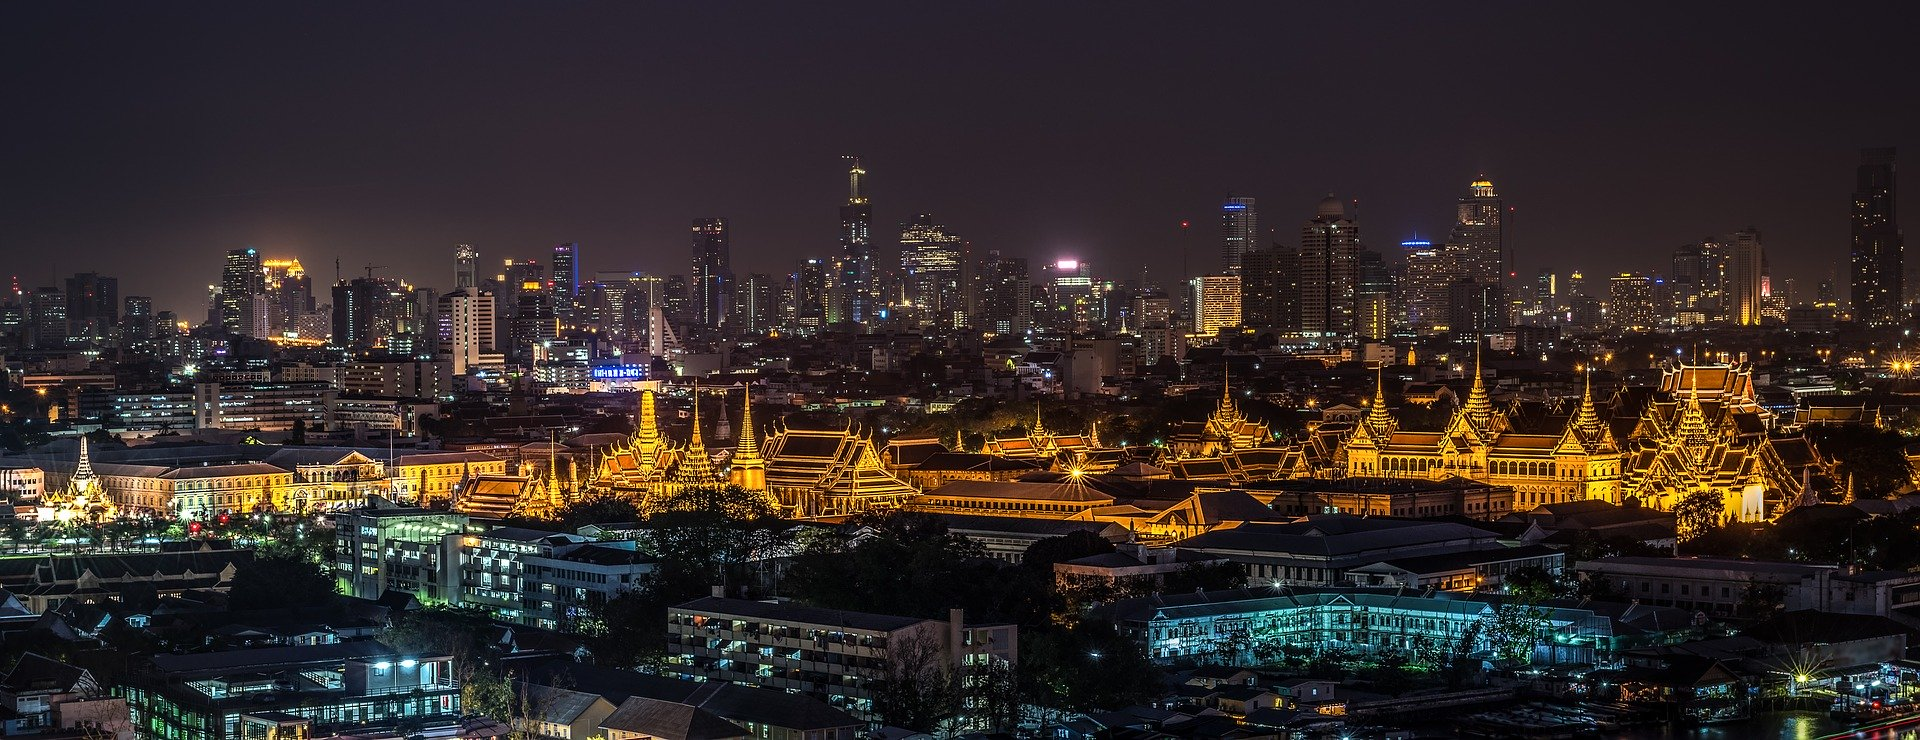
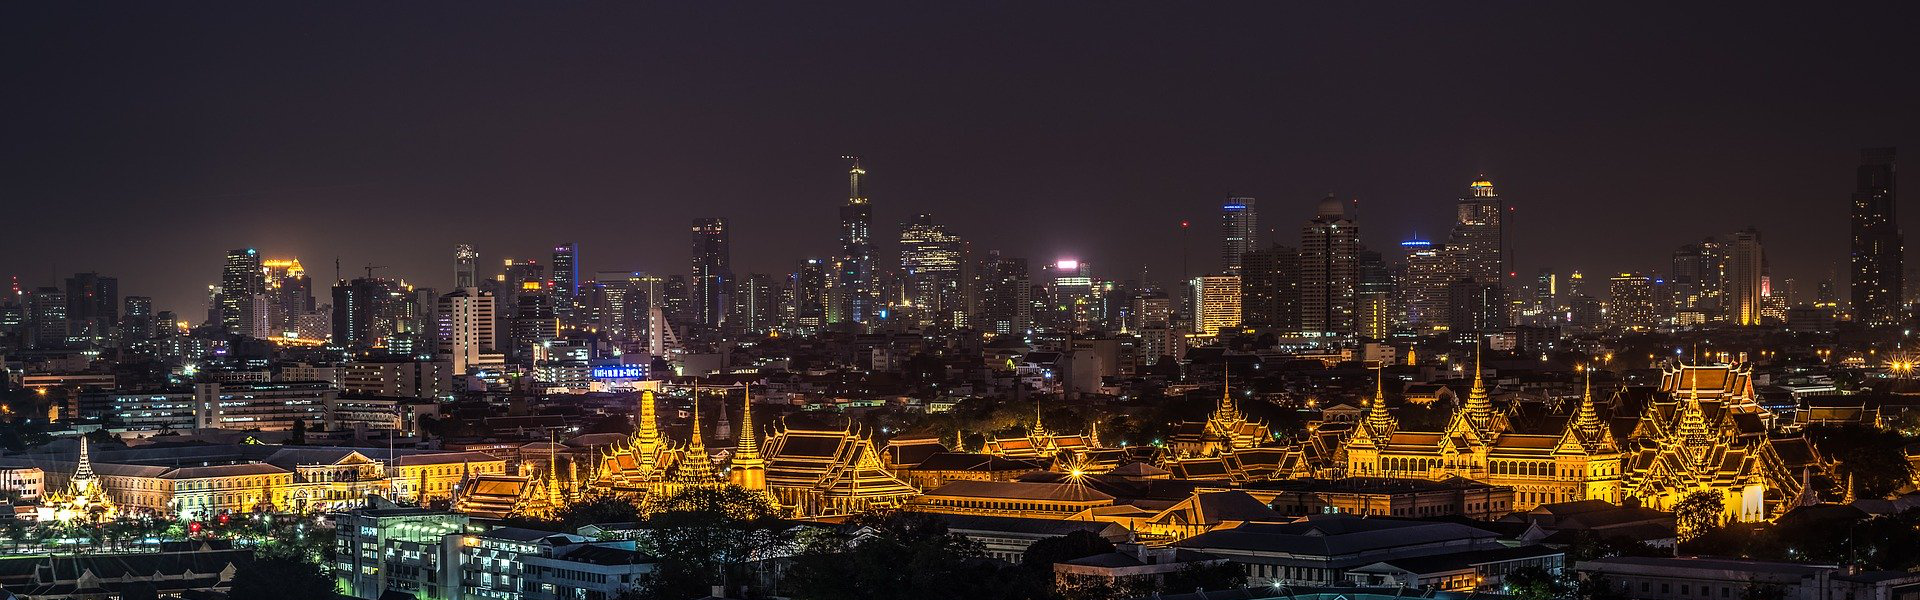
tweak images; draft maputo

diff --git a/assets/style.css b/assets/style.css
@@ -2,14 +2,14 @@
 
 body            {background: #f2f2f2}
 
-.header         { background-size: cover; min-height: 500px; padding-top: 20px; border-bottom: 0; margin-bottom: 30px}
-.home           {background: url(/images/city.jpg) no-repeat center center;}
-.Nottingham     {background: url(/images/Nottingham.jpg) no-repeat center center;}
-.Rio            {background: url(/images/Rio.jpg) no-repeat top center;}
-.Bangkok        {background: url(/images/Bangkok.jpg) no-repeat center center;}
+.header         { background-size: cover; height: 400px; padding-top: 20px; border-bottom: 0; margin-bottom: 30px}
+.home           {background: url(/images/city.jpg) no-repeat top center;}
+.Nottingham     {background: url(/images/Nottingham.jpg) no-repeat top center;}
+.Rio            {background: url(/images/Rio.jpg) no-repeat top left;}
+.Bangkok        {background: url(/images/Bangkok.jpg) no-repeat center left;}
+.Maputo        {background: url(/images/Maputo.jpg) no-repeat center 75%;}
 
-
-.header .title  {width: 50%; color: white; /*background: rgba(204, 204, 204, 0.8);*/ padding: 10px; }
+.header .title  {color: white; /*background: rgba(204, 204, 204, 0.8);*/ padding: 10px; }
 .title p        {margin-botton: 0}
 
 footer          {background: #c3c3c3; padding: 50px 0; margin-top: 30px;}
@@ -24,6 +24,8 @@ footer img      {max-width: 100%}
 h2              {margin-top: 30px}
 .intro          {font-size: 120%}
 
+.btn-primary    { color: #fff; background-color: #2898DA; border-color: #2898DA; }
+a               {color: #2898DA}
 
 /* cards */
 .card           {border: none; border-radius: 0}
@@ -40,8 +42,34 @@ h2              {margin-top: 30px}
 
 
 
+/* larger devices */
+
+@media (min-width:  768px) {
+  /* center so less sky */
+  .header         { background-size: cover; height: 500px; padding-top: 20px; border-bottom: 0; margin-bottom: 30px}
+  .home           {background: url(/images/city.jpg) no-repeat center center;}
+  .Nottingham     {background: url(/images/Nottingham.jpg) no-repeat center center;}
+  .Rio            {background: url(/images/Rio.jpg) no-repeat center center;}
+  .Bangkok        {background: url(/images/Bangkok.jpg) no-repeat center center;}
+  .Maputo        {background: url(/images/Maputo.jpg) no-repeat center center;}
+}
 
 
+@media (min-width:  992px) {
+  /* bottom so even less sky */
+  .header         { background-size: cover; height: 500px; padding-top: 20px; border-bottom: 0; margin-bottom: 30px}
+  .home           {background: url(/images/city.jpg) no-repeat bottom center;}
+  .Nottingham     {background: url(/images/Nottingham.jpg) no-repeat center center;}
+  .Rio            {background: url(/images/Rio.jpg) no-repeat center center;}
+  .Bangkok        {background: url(/images/Bangkok.jpg) no-repeat bottom center;}
+  .Maputo        {background: url(/images/Maputo.jpg) no-repeat bottom center;}
+  .header .title  {width: 70%;}
+}
+
+
+@media (min-width: 1200px) {
+  .header .title  {width: 50%;}
+}
 
 /*
  * Font Awesome Free 5.8.1 by @fontawesome - https://fontawesome.com

diff --git a/rio.html b/rio.html
@@ -1,6 +1,6 @@
 ---
 layout: city
-title: Rio
+title: Rio de Janeiro
 city: Rio
 country: Brazil
 ---
@@ -8,16 +8,15 @@ country: Brazil
   <!-- RESEARCH INTRO -->
   <div class="row">
     <div class="col-md-9 intro">
-      <p>Cooperative Maravilha is a group of women residents in the Favela of Providência in the city of Rio de Janeiro. They work in the garment sector, sharing the objective of strengthening their economic activities as social entrepreneurs, aiming purpose, autonomy and income generation. We are supporting this aspiration with legal, educational support and awareness of modern slavery.</p>
-      <p>I-MiGRa – Migration, Gender and Race Institute is a civil society organization that is born with the premise of respecting what is understood as human rights from a global South perspective, thus serving as a counterpoint to the establishment. The objective is to fight multiple forms of human rights violations with a critical and purposeful perspective, from development of studies and projects to cooperation with public, private and civil society institutions, in order to create durable solutions in the field of Human Rights.</p>
+      <p>Rio is Brazil’s second most populous city with approximately 6.7 million people.Local challenges include responding to new and emerging forms of urban exploitation; preventing labour abuses linked to informal employment practices and the need for greater legal clarification on child labour and sexual exploitation.</p>
+      <p>Local projects include Cooperative Maravilha, which employs women residents in the Favela of Providência in the city of Rio de Janeiro. The Cooperative works in the garment sector, strengthening economic activity through social entrepreneurship, creating purpose, autonomy and income generation. We are supporting this aspiration with legal and educational support, alongside awareness raising on modern slavery.</p>
+      <p>I-MiGRa – Migration, Gender and Race Institute is a civil society organization created with the premise of respecting human rights from a global South perspective. The objective is to fight multiple forms of human rights violations  through development of studies and projects in cooperation with public, private and civil society institutions, in order to create durable solutions in the field of Human Rights.</p>
 
       <p><b>Key areas of interest:</b></p>
       <ul>
-        <li>xxx xxx</li>
-        <li>xxx xxx</li>
-        <li>xxx xxx</li>
-        <li>xxx xxx</li>
-        <li>xxx xxx</li>
+        <li>Exploring how legal definitions drive policy responses</li>
+        <li>Protecting informal workers and those at the periphery of society</li>
+        <li>Strengthening city-level governance</li>
       </ul>
 
       <p><b>Hopes for the project:</b><br/>

diff --git a/404.html b/404.html
@@ -4,8 +4,26 @@ title: "File not found"
 permalink: /404.html
 ---
 
-<div class="center">
-	<h2>Ooops. Theres nothing here.</h2>
-	<br/>
-	<a class="btn btn-default" href="/">Home page</a>
+<!-- HEADER -->
+<div class="header home">
+  <div class="container">
+    <div class="title">
+      <h1>Global Cities Free of Slavery</h1>
+      <p class="hidden-xs">A global network focussed on building community resilience against modern slavery and human trafficking.</p>
+    </div>
+  </div>
+</div>
+
+<!-- CONTENT -->
+<div class="container">
+
+	<div class="center">
+		<h2>Page not found</h2>
+
+		<p>Try the <a href="/">Home page</a> or choose a city from below.</p>
+	</div>
+
+	<!-- CITIES CARDS -->
+	{% include cities.html %}
+
 </div>

diff --git a/index.html b/index.html
@@ -36,7 +36,10 @@ layout: default
   <div class="row">
     <div class="col-lg">
       <h2>Reports</h2>
-      <p style="height: 300px; background: white"> video... pdf... etc</p>
+      <p>A short film about the first workshop to begin the construction of a network of global cities engaged in the eradication of modern slavery</p>
+      <div class="embed-responsive embed-responsive-16by9">
+        <iframe src="https://player.vimeo.com/video/420383178" frameborder="0" allow="autoplay; fullscreen" allowfullscreen></iframe>
+      </div>
     </div>
   </div> <!-- end row -->
 

diff --git a/maputo.html b/maputo.html
@@ -1,0 +1,28 @@
+---
+layout: city
+title: Maputo
+city: Maputo
+country: Mozambique
+---
+
+  <!-- RESEARCH INTRO -->
+  <div class="row">
+    <div class="col-md-9 intro">
+      <p>Maputo....</p>
+      <p>....</p>
+
+      <p><b>Key areas of interest:</b></p>
+      <ul>
+        <li>...</li>
+        <li>...</li>
+        <li>...</li>
+      </ul>
+
+      <p><b>Hopes for the project:</b><br/>
+          ....</p>
+
+    </div>
+    <div class="col-md-3">
+      <p>map..</p>
+    </div>
+  </div> <!-- end row-->

diff --git a/_layouts/city.html b/_layouts/city.html
@@ -5,10 +5,10 @@
 <body>
 
   <!-- HEADER -->
-  <div class="header {{ page.city }}">
+  <div class="header {{ page.title }}">
     <div class="container">
       <div class="title">
-        <h1>{{ page.city }}</h1>
+        <h1>{{ page.title }}</h1>
         <p class="hidden-xs">{{ page.country }}</p>
       </div>
     </div>
